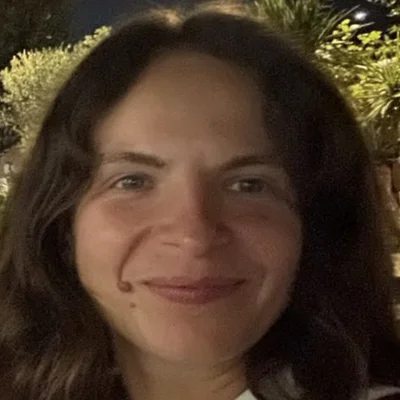
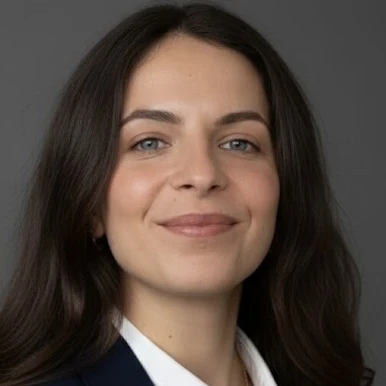
Notre histoire : nouveau portrait de Daphné
Claude-Session: https://claude.ai/code/session_01W5G8TYRrgYz51vGhfAKz7Z

diff --git a/histoire.html b/histoire.html
@@ -208,7 +208,7 @@
             <p>Fondateur de <a href="https://restaurant-lucien.fr/" rel="noopener">Lucien – Maison Tunisienne</a>, dans le 11<sup>e</sup>, Ruben fait le lien entre la bière et l'assiette.</p>
           </article>
           <article class="team__member">
-            <span class="team__portrait"><img decoding="async" src="assets/img/photos/daphne-lechaim-fete.webp" alt="Portrait de Daphné" width="400" height="400" loading="lazy"></span>
+            <span class="team__portrait"><img decoding="async" src="assets/img/photos/daphne-lechaim-fete.webp" alt="Portrait de Daphné" width="386" height="386" loading="lazy"></span>
             <h3>Daphné <span>La fête</span></h3>
             <p>Daphné pense les moments où l'on lève son verre : mariages, bar-mitsva, anniversaires et soirées.</p>
           </article>
